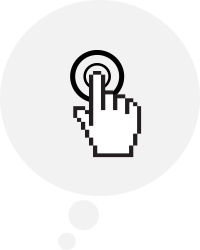
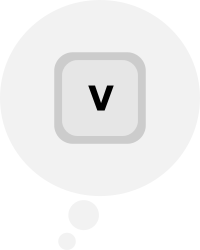
fixed the tutorial for interacting and added in shell pick up popup

Changed region(s): [[0.27, 0.196, 0.75, 0.644]]

diff --git a/shellPlatformer/Assets/Scripts/Player/ShellThrower.cs b/shellPlatformer/Assets/Scripts/Player/ShellThrower.cs
@@ -34,6 +34,9 @@ public class ShellThrower : MonoBehaviour {
 
 	private GameObject temporaryShellCollisionFix;
 
+	private GameObject popUp;
+	public Vector3 offset = new Vector3(0,1,0);
+
 	// Use this for initialization
 	void Start () {
 
@@ -85,6 +88,11 @@ public class ShellThrower : MonoBehaviour {
 		float throwX = Mathf.Cos(fixedThrowAngle* Mathf.PI/180);
 		float throwY = Mathf.Sin (fixedThrowAngle* Mathf.PI/180);
 		fixedThrowVec = new Vector2 (throwX, throwY) * throwForce;
+
+		// pickup popup
+		popUp = (GameObject) Instantiate(Resources.Load("pickupPopup"), transform);
+		popUp.transform.position = transform.position + offset;
+		popUp.SetActive (false);
 	}
 
 
@@ -92,6 +100,7 @@ public class ShellThrower : MonoBehaviour {
 		if (Input.GetButtonDown("Down")) {
 			if (transform.parent != player && shellRigidBody.velocity.magnitude < shellPickupSpeed  
 				&& ((Vector2)(player.position - transform.position)).magnitude < interactDist) {
+
 				if (PickUpShell ()) {
 					Vector3 shellPos = transform.localScale;
 					shellPos.x = Mathf.Abs (shellPos.x);// * Mathf.Sign(player.localScale.x);
@@ -103,6 +112,15 @@ public class ShellThrower : MonoBehaviour {
 		} else if (Input.GetButtonDown("Throw")) {
 			StartCoroutine (throwAnimRoutine ());
 			Throw();
+		}
+
+		// popup if can pick up shell
+		Transform childShell = player.Find ("Shell");
+		if ((childShell == null || childShell == this.transform) && player.GetComponent<PlayerController>().CanPickupShell(gameObject) && transform.parent != player && shellRigidBody.velocity.magnitude < shellPickupSpeed  
+			&& ((Vector2)(player.position - transform.position)).magnitude < interactDist) {
+			popUp.SetActive (true);
+		} else {
+			popUp.SetActive (false);
 		}
 	}
 

diff --git a/shellPlatformer/Assets/Scripts/Player/Shell.cs b/shellPlatformer/Assets/Scripts/Player/Shell.cs
@@ -79,4 +79,5 @@ public class Shell : MonoBehaviour {
 	public bool isFull() {
 		return waterLevel > 0;
 	}
+
 }
